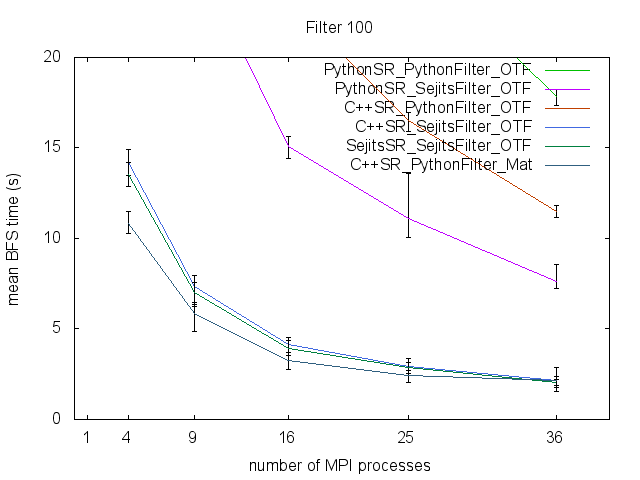
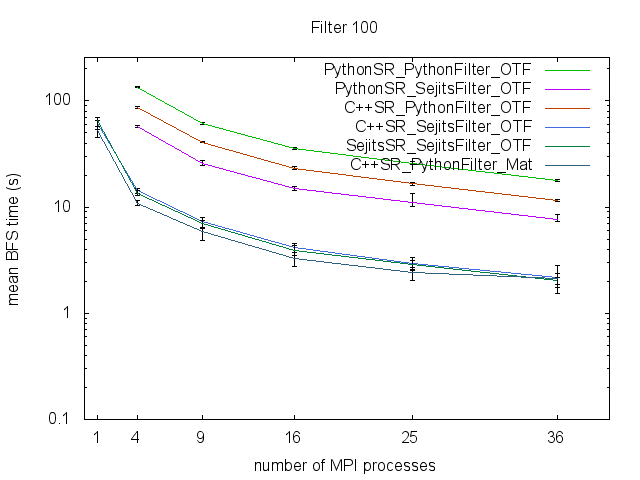
updated analyze script

diff --git a/sandbox/AnalyzeIPDPS.py b/sandbox/AnalyzeIPDPS.py
@@ -1,19 +1,35 @@
 import sys
 import re
 
-cores = {1: "result_ipdps_bfs_22_1.txt", 4: "result_ipdps_bfs_22_4.txt", 9: "result_ipdps_bfs_22_9.txt", 16: "result_ipdps_bfs_22_16.txt", 25: "result_ipdps_bfs_22_25.txt", 36: "result_ipdps_bfs_22_36.txt"}
+if len(sys.argv) < 2:
+	print "what are you trying to do?"
+	sys.exit()
 
-experiments = ["PythonSR_PythonFilter_OTF", "PythonSR_SejitsFilter_OTF", "C++SR_PythonFilter_OTF","C++SR_SejitsFilter_OTF", "SejitsSR_SejitsFilter_OTF", "C++SR_PythonFilter_Mat"]
+filters = [1, 10, 25, 100]
 
-# ID will be replaced by strings from experiments array
-experiment_varieties = ["mean_IDtime", "min_IDtime", "max_IDtime"]
+if sys.argv[1] == "bfs":
+	cores = {1: "result_ipdps_bfs_22_1.txt", 4: "result_ipdps_bfs_22_4.txt", 9: "result_ipdps_bfs_22_9.txt", 16: "result_ipdps_bfs_22_16.txt", 25: "result_ipdps_bfs_22_25.txt", 36: "result_ipdps_bfs_22_36.txt"}
+	
+	experiments = ["PythonSR_PythonFilter_OTF", "PythonSR_SejitsFilter_OTF", "C++SR_PythonFilter_OTF","C++SR_SejitsFilter_OTF", "SejitsSR_SejitsFilter_OTF", "C++SR_PythonFilter_Mat"]
+	
+	# ID will be replaced by strings from experiments array
+	experiment_varieties = ["mean_IDtime", "min_IDtime", "max_IDtime"]
+elif sys.argv[1] == "mis":
+	cores = {1: "result_ipdps_MIS_1.txt", 4: "result_ipdps_MIS_4.txt", 9: "result_ipdps_MIS_9.txt", 16: "result_ipdps_MIS_16.txt", 25: "result_ipdps_MIS_25.txt", 36: "result_ipdps_MIS_36.txt"}
+	
+	experiments = ["PythonSR_PythonFilter_ER_OTF_22", "PythonSR_SejitsFilter_ER_OTF_22", "SejitsSR_SejitsFilter_ER_OTF_22"]
+	
+	# ID will be replaced by strings from experiments array
+	experiment_varieties = ["mean_IDtime", "min_IDtime", "max_IDtime"]
+else:
+	print "unknown option. use bfs or mis"
+	sys.exit()
 
 varieties = []
 for exp in experiments:
 	for var in experiment_varieties:
 		varieties.append(var.replace("ID", exp))
 
-filters = [1, 10, 25, 100]
 
 data = []
 # parse
@@ -36,7 +52,7 @@ def format_table(data, group_col_idx, group_col_select_val, col_ids, row_ids, co
 		fdata.append([])
 		fdata[i].append(row_ids[i])
 		for j in range(len(col_ids)):
-			fdata[i].append("")
+			fdata[i].append("-")
 		
 	# format the data into a grid
 	for d in data:
@@ -77,7 +93,8 @@ for filter in filters:
 	gnuplot += 'set output "%s.png"\n'%filestem
 	gnuplot += ''
 	gnuplot += 'set xrange [0:40]\n'
-	gnuplot += 'set yrange [0:20]\n'
+	gnuplot += 'set yrange [0.1:256]\n'
+	gnuplot += 'set logscale y\n'
 	gnuplot += "set xlabel 'number of MPI processes'\n"
 	gnuplot += "set ylabel 'mean BFS time (s)'\n"
 	
